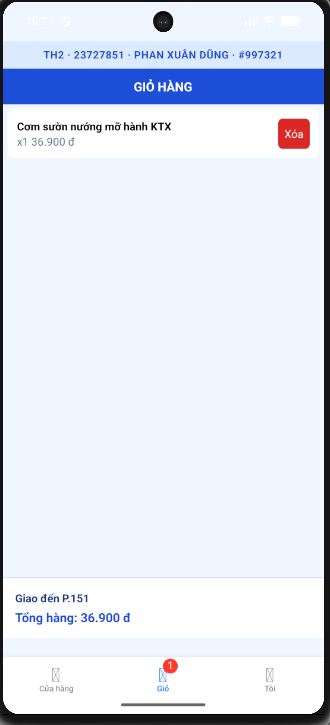
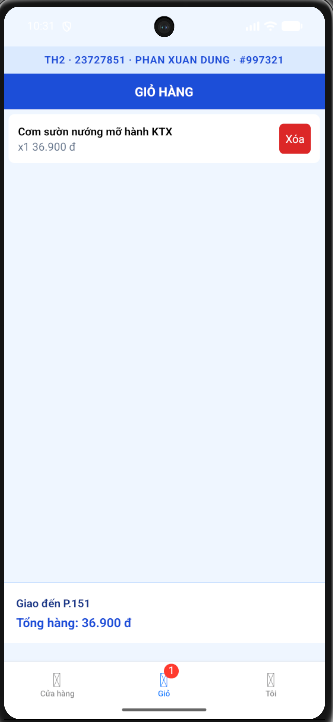
chinh sua'

Changed region(s): [[0.0, 0.0, 1.0, 1.0], [0.0303, 0.7922, 0.3939, 0.8837], [0.0, 0.7922, 0.0303, 0.8227]]

diff --git a/src/constants/student.ts b/src/constants/student.ts
@@ -1,7 +1,7 @@
 // TH2 | 23727851 | PHAN XUAN DUNG | #997321
 export const STUDENT = {
     mssv: '23727851',
-    hoTen: 'PHAN XUÂN DŨNG',
+    hoTen: 'PHAN XUAN DUNG',
 } as const;
 
 const soCuoi = Number(STUDENT.mssv.slice(-1));
